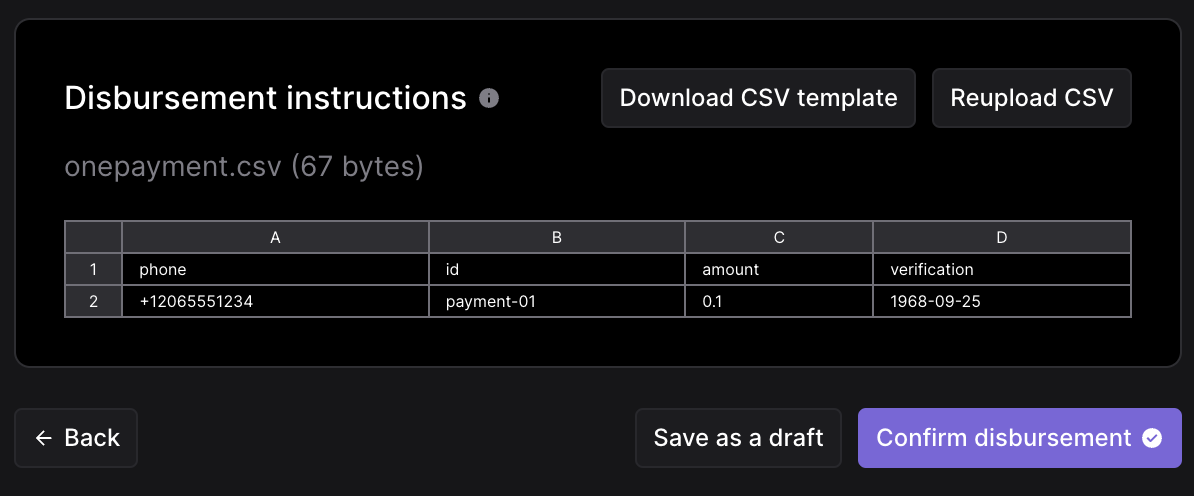
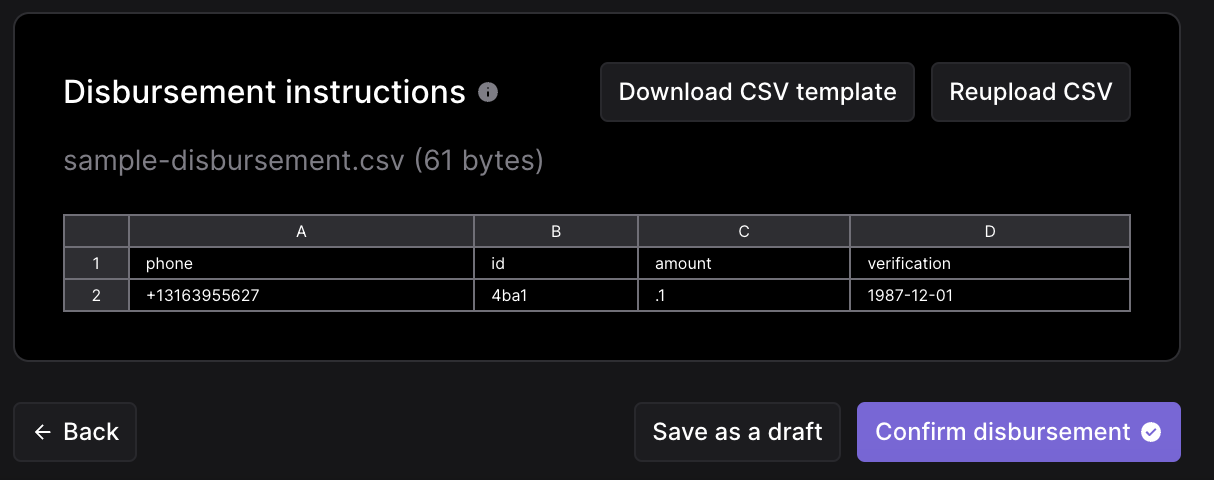
updates for images and readme

diff --git a/dev/README.md b/dev/README.md
@@ -112,7 +112,7 @@ Login URLs for each tenant:
 
 1. Navigate to the SDP frontend service by opening a browser and going to [http://bluecorp.stellar.local:3000](http://bluecorp.stellar.local:3000).
 
-   <img src="images/sdp_login.png" alt="SDP Login" width="65%">
+   <img src="images/sdp_login.png" alt="SDP Login" width="40%">
 
 2. **Create First Disbursement**
 
@@ -121,31 +121,30 @@ Login URLs for each tenant:
    - Select `United States` as the Country.
    - Select `Date of Birth` as the verification method.
 
-   <img src="images/disbursement1.png" alt="Disbursement" width="65%">
+   <img src="images/disbursement1.png" alt="Disbursement" width="40%">
 
 3. **Create and Upload a Disbursement File**
 
    - A sample file template is available [sample-disbursement.csv](./sample/sample-disbursement.csv).
    - Make sure to update the invalid phone numbers before using it.
-   - Here is an example of a disbursement file containing one payment for `0.1 USDC` using a fake phone number `+1 (206) 555-1234`:
+   - Here is an example of a disbursement file with a single payment:
    
    ```csv
    phone,id,amount,verification
-   +15550111111,4ba1,0.1,1987-12-01
+   +13163955627,4ba1,.1,1987-12-01
    ```
 
    - In this example, when registering, the payment receiver will be asked to verify their phone number and date of birth which will need to match the payment file instructions.
 
    - Upload the CSV and then click the Review button.  When you are ready to start the disbursement click the `Confirm disbursement` button.
    
-   <img src="images/disbursement2.png" alt="alt text" width="65%">
-   ![alt text](image.png)
+   <img src="images/disbursement2.png" alt="alt text" width="40%">
 
 4. **View the Disbursement Details Dashboard**
 
    Navigate to Disbursement Details and see the payment in the disbursement is currently in a `Ready` state. This means the receiver has yet to accept the invitation and deposit the funds.
 
-   <img src="images/disbursement_detail.png" alt="Disbursement Details" width="65%">
+   <img src="images/disbursement_detail.png" alt="Disbursement Details" width="40%">
 
 ### Receive Payment to Digital Wallet (Deposit Flow)
 
@@ -156,40 +155,39 @@ Now deposit the disbursement payment into the digital wallet using the SEP-24 de
 3. Click `Create account` (in front of public key) to actually create the account on the Stellar testnet.
 4. Your newly created account will have 10,000 XLM.
    
-   <img src="images/demo_wallet.png" alt="Demo Wallet" width="65%">
+   <img src="images/demo_wallet.png" alt="Demo Wallet" width="40%">
 
 5. Add `USDC` by clicking `Add from preset assets` link, selecting the `USDC` Checkbox and clicking `Confirm`.
 
-   <img src="images/demo_wallet1.png" alt="Demo Wallet" width="65%">
+   <img src="images/demo_wallet1.png" alt="Demo Wallet" width="40%">
 
 6. Click the `Add trustline` link next to the `Select Action` dropdown.
 
-   <img src="images/demo_wallet2.png" alt="Add Trustline" width="65%">
+   <img src="images/demo_wallet2.png" alt="Add Trustline" width="40%">
 
 7. Click the `pencil` icon beside `USDC` balance to edit the home domain. Enter `http://bluecorp.stellar.local:8000` and click the `Override` button.
 
-   <img src="images/demo_wallet3.png" alt="Edit Home Domain" width="65%">
+   <img src="images/demo_wallet3.png" alt="Edit Home Domain" width="40%">
 
 8. In the `USDC` `Select action` dropdown, select `SEP-24 Deposit` and then click the `Start` button.
-
-   <img src="images/sep24_deposit1.png" alt="SEP-24 Deposit" width="65%">
+   
+   <img src="images/sep24_deposit1.png" alt="SEP-24 Deposit" width="40%">
 
 9.  In the new window, enter the phone number `+12065551234` from the disbursement CSV payment.
-
-   <img src="images/sep24_deposit2.png" alt="Enter Phone Number" width="65%">
+    
+    <img src="images/sep24_deposit2.png" alt="Enter Phone Number" width="40%">
 
 10. To verify the payment, enter the passcode and date of birth. You can use `000000` passcode or find the actual passcode in the `sdp-api` container logs.
-![alt text](image-1.png)
-    <img src="images/sep24_deposit3.png" alt="Verify Payment" width="65%">
 
-1.  The SEP-24 interactive pop-up will confirm the registration was successful. At this point, the SDP can associate the wallet address with the receiver phone number. It should then start processing the transaction to send the payment. If you check the dashboard, the payment should be in a `PENDING` state.
+    <img src="images/sep24_deposit3.png" alt="Verify Payment" width="40%">
 
-    <img src="images/payment1.png" alt="Pending Payment" width="65%">
+11. The SEP-24 interactive pop-up will confirm the registration was successful. At this point, the SDP can associate the wallet address with the receiver phone number. It should then start processing the transaction to send the payment. If you check the dashboard, the payment should be in a `PENDING` state.
 
-2.  Keep an eye on the dashboard until the payment status reaches `Success`. If everything was set up correctly, your money should be disbursed successfully.
+    <img src="images/payment1.png" alt="Pending Payment" width="55%">
 
-    <img src="images/payment2.png" alt="Successful Payment" width="65%">
+12. Once complete, the payment status will be `Success` and your wallet will have the USDC.
 
+    <img src="images/payment2.png" alt="Successful Payment" width="55%">
 
 ## Additional Development Environment Details
 
